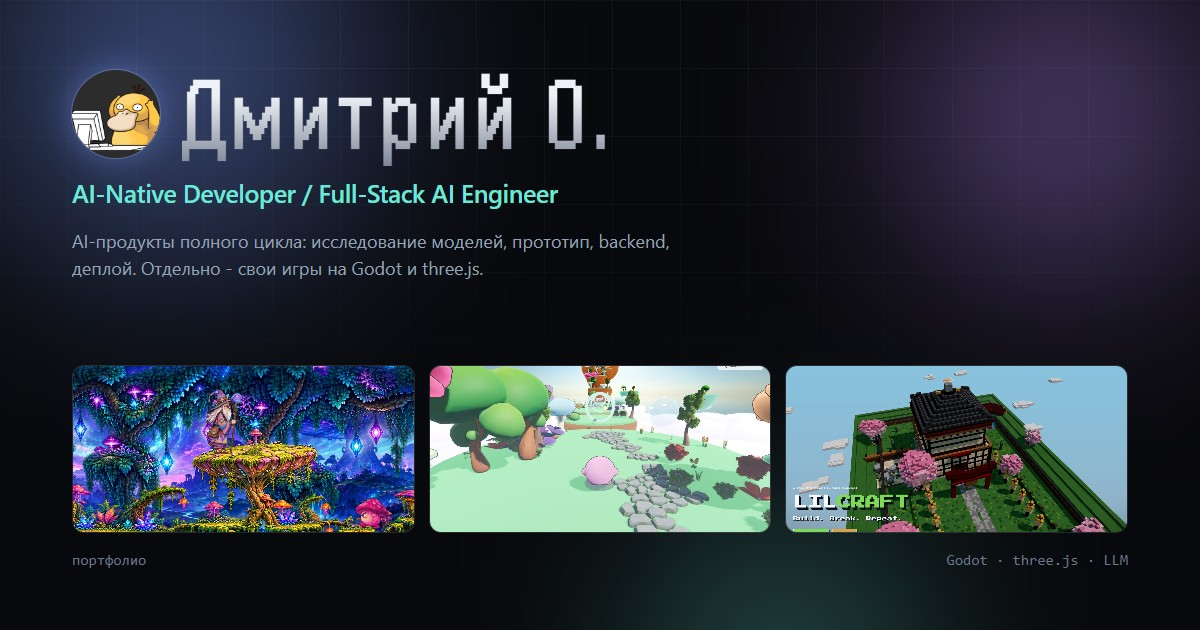
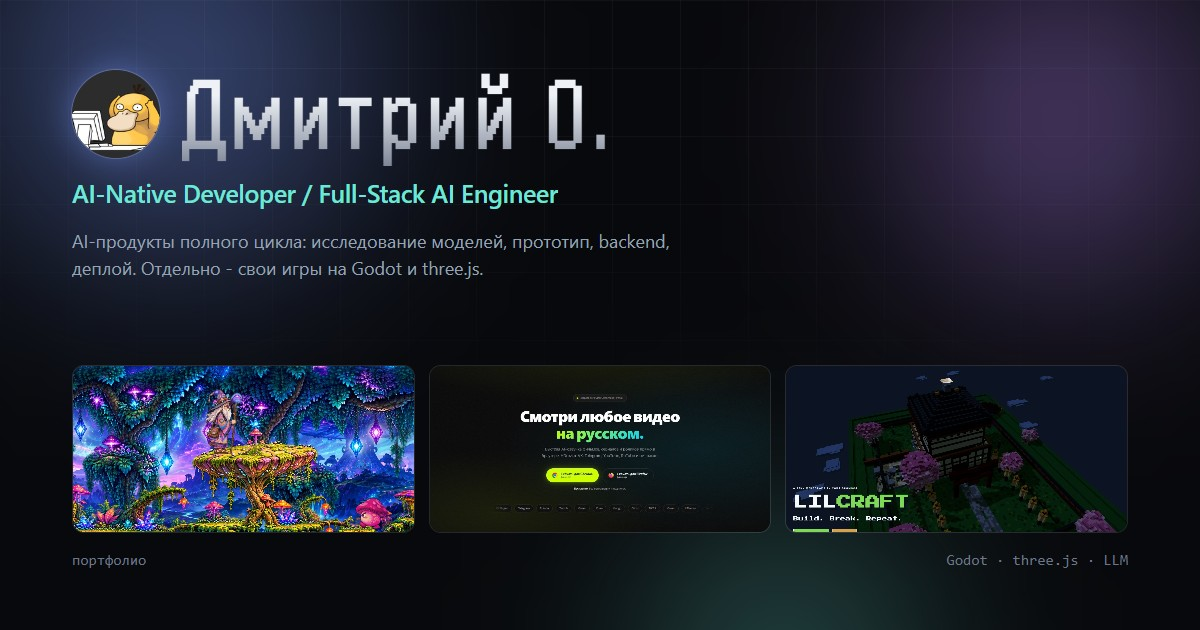
Превью LILCRAFT и og: тёмная тема вместо дневной
- shots.js: lilcraft снимается без клика по #btnDay (игра стартует ночью),
  источник — живое зеркало dvodev.space/games/lilcraft/, а не прод-домен игры
- shots.js: ignoreHTTPSErrors в контексте (dvodev.space на этой сети отдаёт
  чужой сертификат, page.goto падал с ERR_CERT_COMMON_NAME_INVALID)
- og.html: средняя яркая панель bubblepeaks заменена на dubbed — все три
  превью в og теперь тёмные
- пересобраны assets/img/projects/lilcraft.jpg и assets/img/og-v2.jpg

Changed region(s): [[0.3392, 0.573, 0.9558, 0.8444]]

diff --git a/tools/shots.js b/tools/shots.js
@@ -29,11 +29,13 @@ const SITES = [
   { slug: 'shrooms',     url: 'https://deddemo.vercel.app/',      wait: 20000, keys: [], clicks: [[800, 655]], look: null, walk: 0, scroll: 0 },
   { slug: 'bubblepeaks', url: 'https://bubblepeaks.vercel.app/',  wait: 22000, keys: ['Enter', 'Space'], clicks: [], look: null, walk: 0, scroll: 0 },
 
-  // Мир стартует в ночном режиме. Для превью переключаем на день: только на нём
-  // читаются додзё, аллея с фонарями и сакура. Переход плавный (lerp по dt), а в
-  // swiftshader dt клампится до 0.05 с при ~2 fps — поэтому пауза 25 с, а не 3.
-  { slug: 'lilcraft',    url: 'https://lilcraft.vercel.app/',     wait: 12000, keys: [], clicks: [], look: null, walk: 0, scroll: 0,
-    selectors: [['#btnDay', 25000]] },
+  // Мир стартует в ночном режиме (dayNight.t = 1), и превью должно быть тёмным —
+  // поэтому #btnDay НЕ жмём. Переход в день/ночь плавный (lerp по dt), а в
+  // swiftshader dt клампится до 0.05 с при ~2 fps: если когда-нибудь понадобится
+  // дневной снимок, пауза после клика должна быть ~25 с, а не 3.
+  // Снимаем именно то зеркало, которое отдаёт портфолио, а не прод-домен игры:
+  // превью должно совпадать с тем, что увидит посетитель по ссылке с сайта.
+  { slug: 'lilcraft',    url: 'https://dvodev.space/games/lilcraft/', wait: 12000, keys: [], clicks: [], look: null, walk: 0, scroll: 0 },
 
   { slug: 'bazaskate',   url: 'https://bazaskate.shop/',          wait: 7000,  keys: [], clicks: [], look: null, walk: 0, scroll: 0 },
   { slug: 'dubbed',      url: 'https://dubbedru.vercel.app/',     wait: 7000,  keys: [], clicks: [], look: null, walk: 0, scroll: 0 },
@@ -66,7 +68,10 @@ const only = process.argv.slice(2);
       viewport: { width: 1600, height: 1000 },
       deviceScaleFactor: s.scale || 1,
       locale: 'ru-RU',
-      reducedMotion: 'no-preference'
+      reducedMotion: 'no-preference',
+      // dvodev.space на этой сети отдаёт чужой сертификат (SNI/DPI), без этого
+      // page.goto падает с ERR_CERT_COMMON_NAME_INVALID. На снимок не влияет.
+      ignoreHTTPSErrors: true
     });
     const page = await ctx.newPage();
     const file = path.join(OUT, s.slug + '.jpg');

diff --git a/tools/og.html b/tools/og.html
@@ -65,7 +65,7 @@
 
     <div class="shots">
       <img src="../assets/img/projects/shrooms.jpg" alt="">
-      <img src="../assets/img/projects/bubblepeaks.jpg" alt="">
+      <img src="../assets/img/projects/dubbed.jpg" alt="">
       <img src="../assets/img/projects/lilcraft.jpg" alt="">
     </div>
     <div class="foot"><span>портфолио</span><span>Godot · three.js · LLM</span></div>
